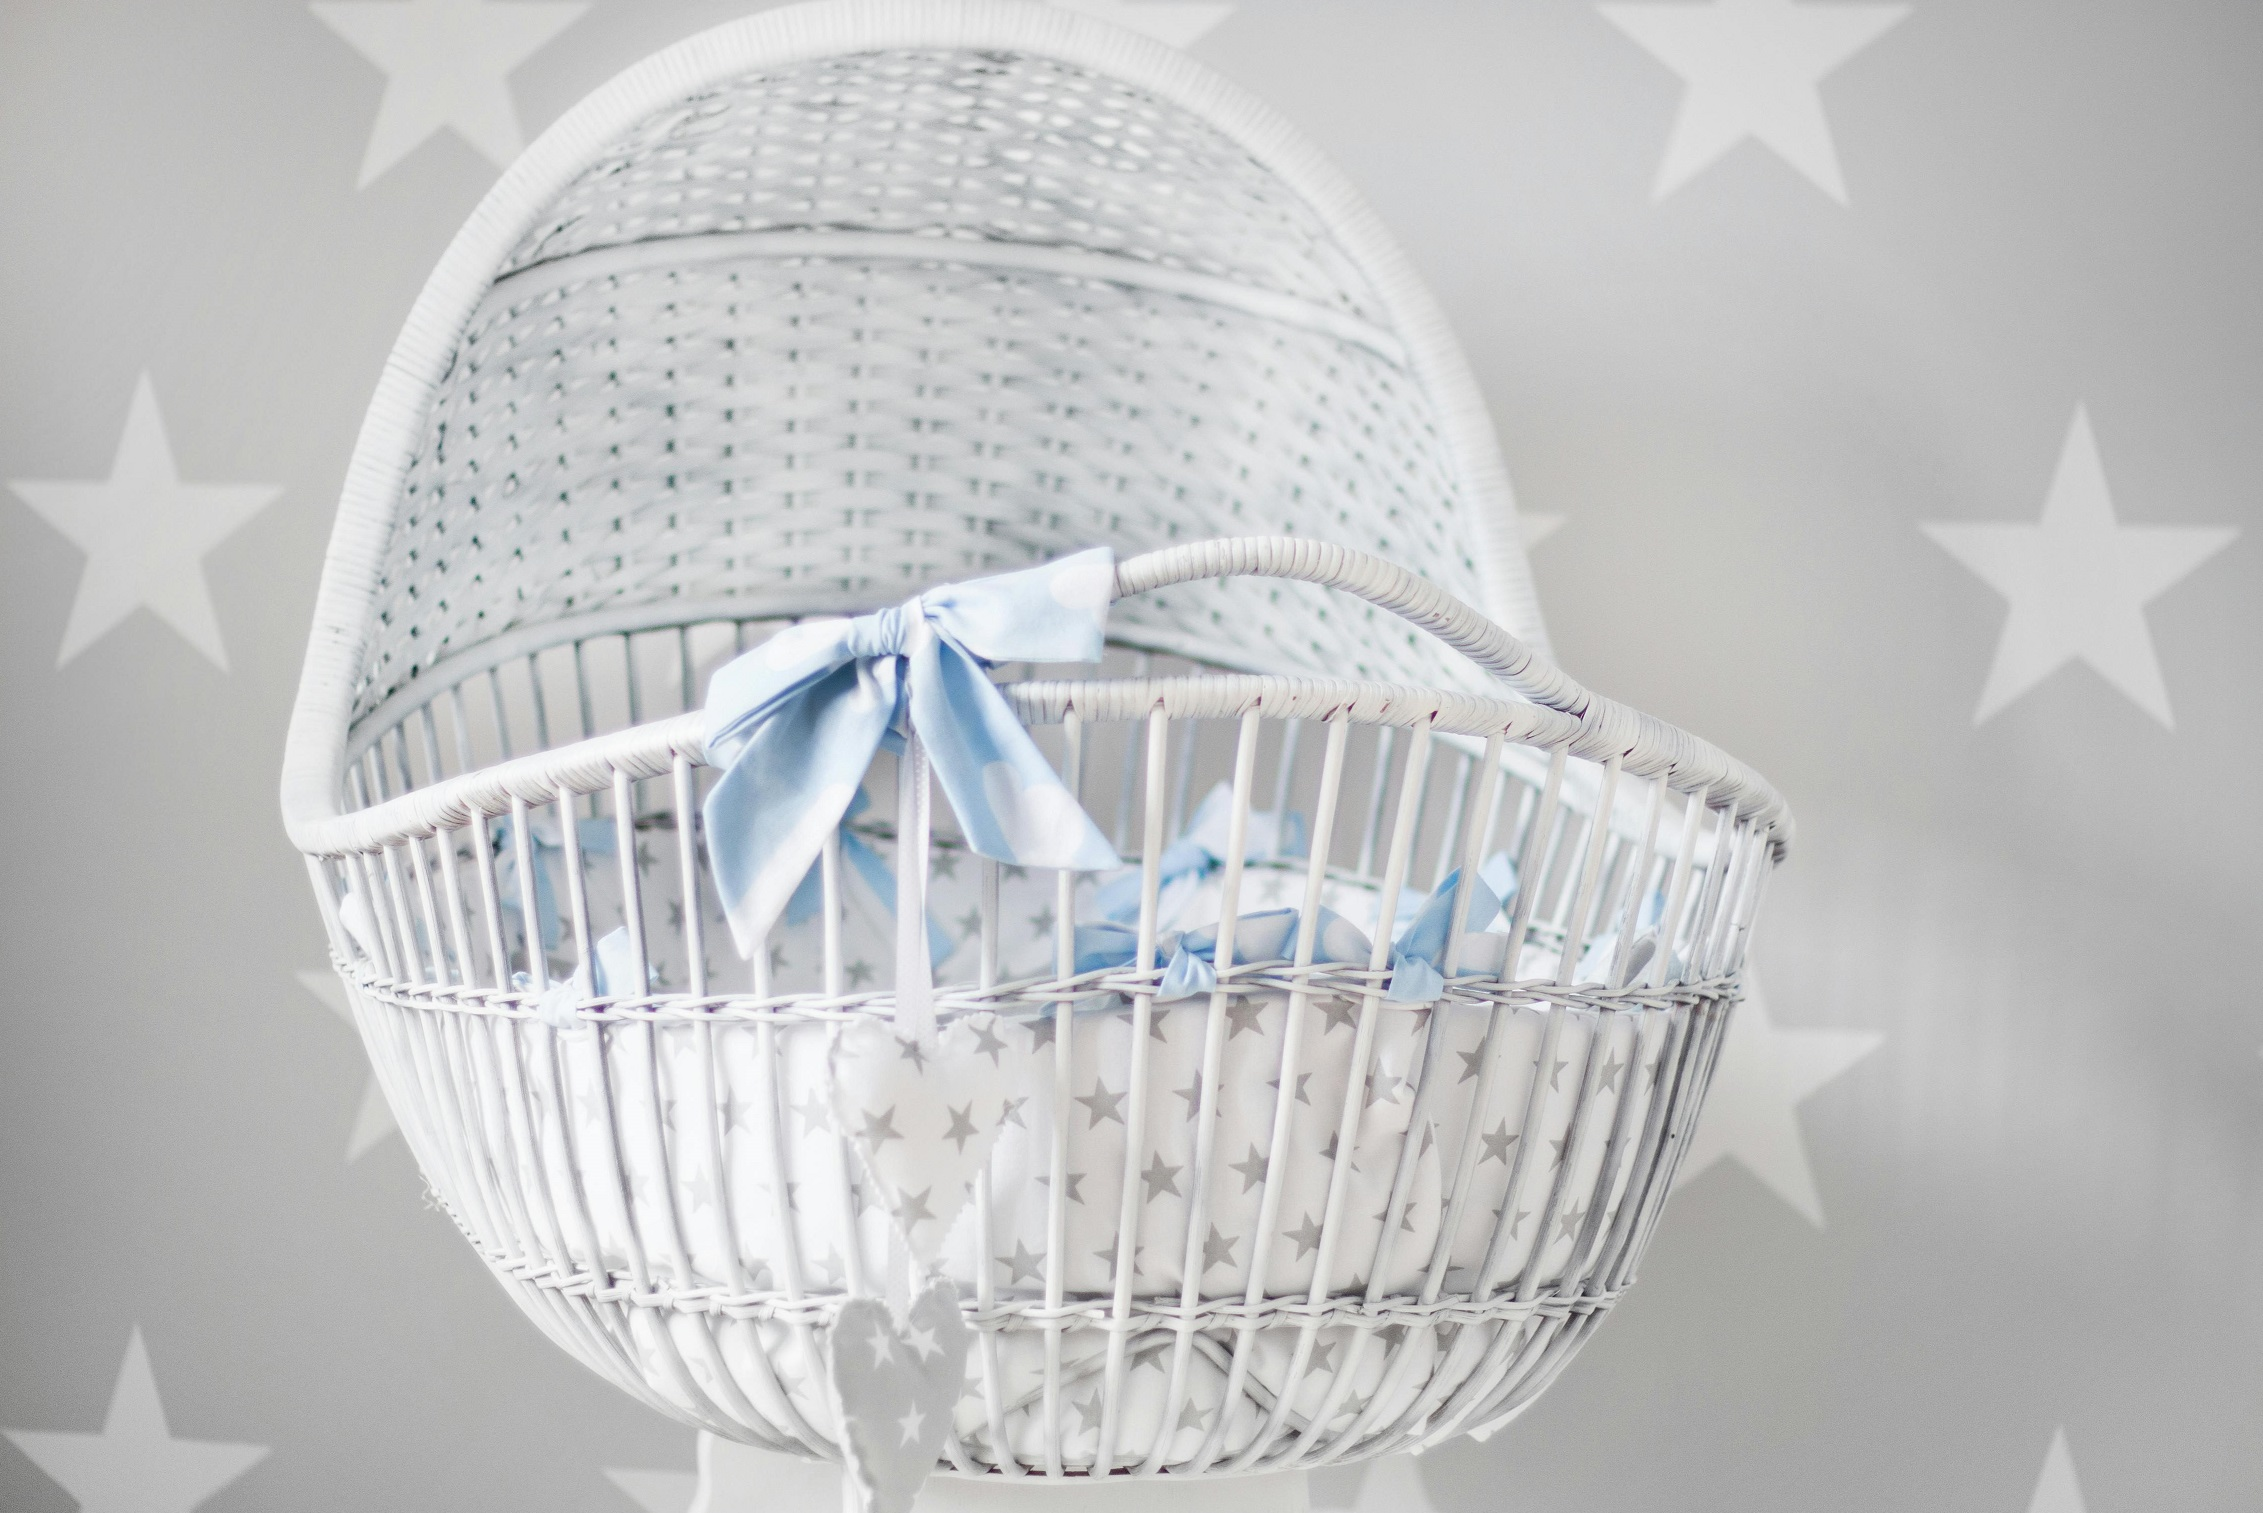
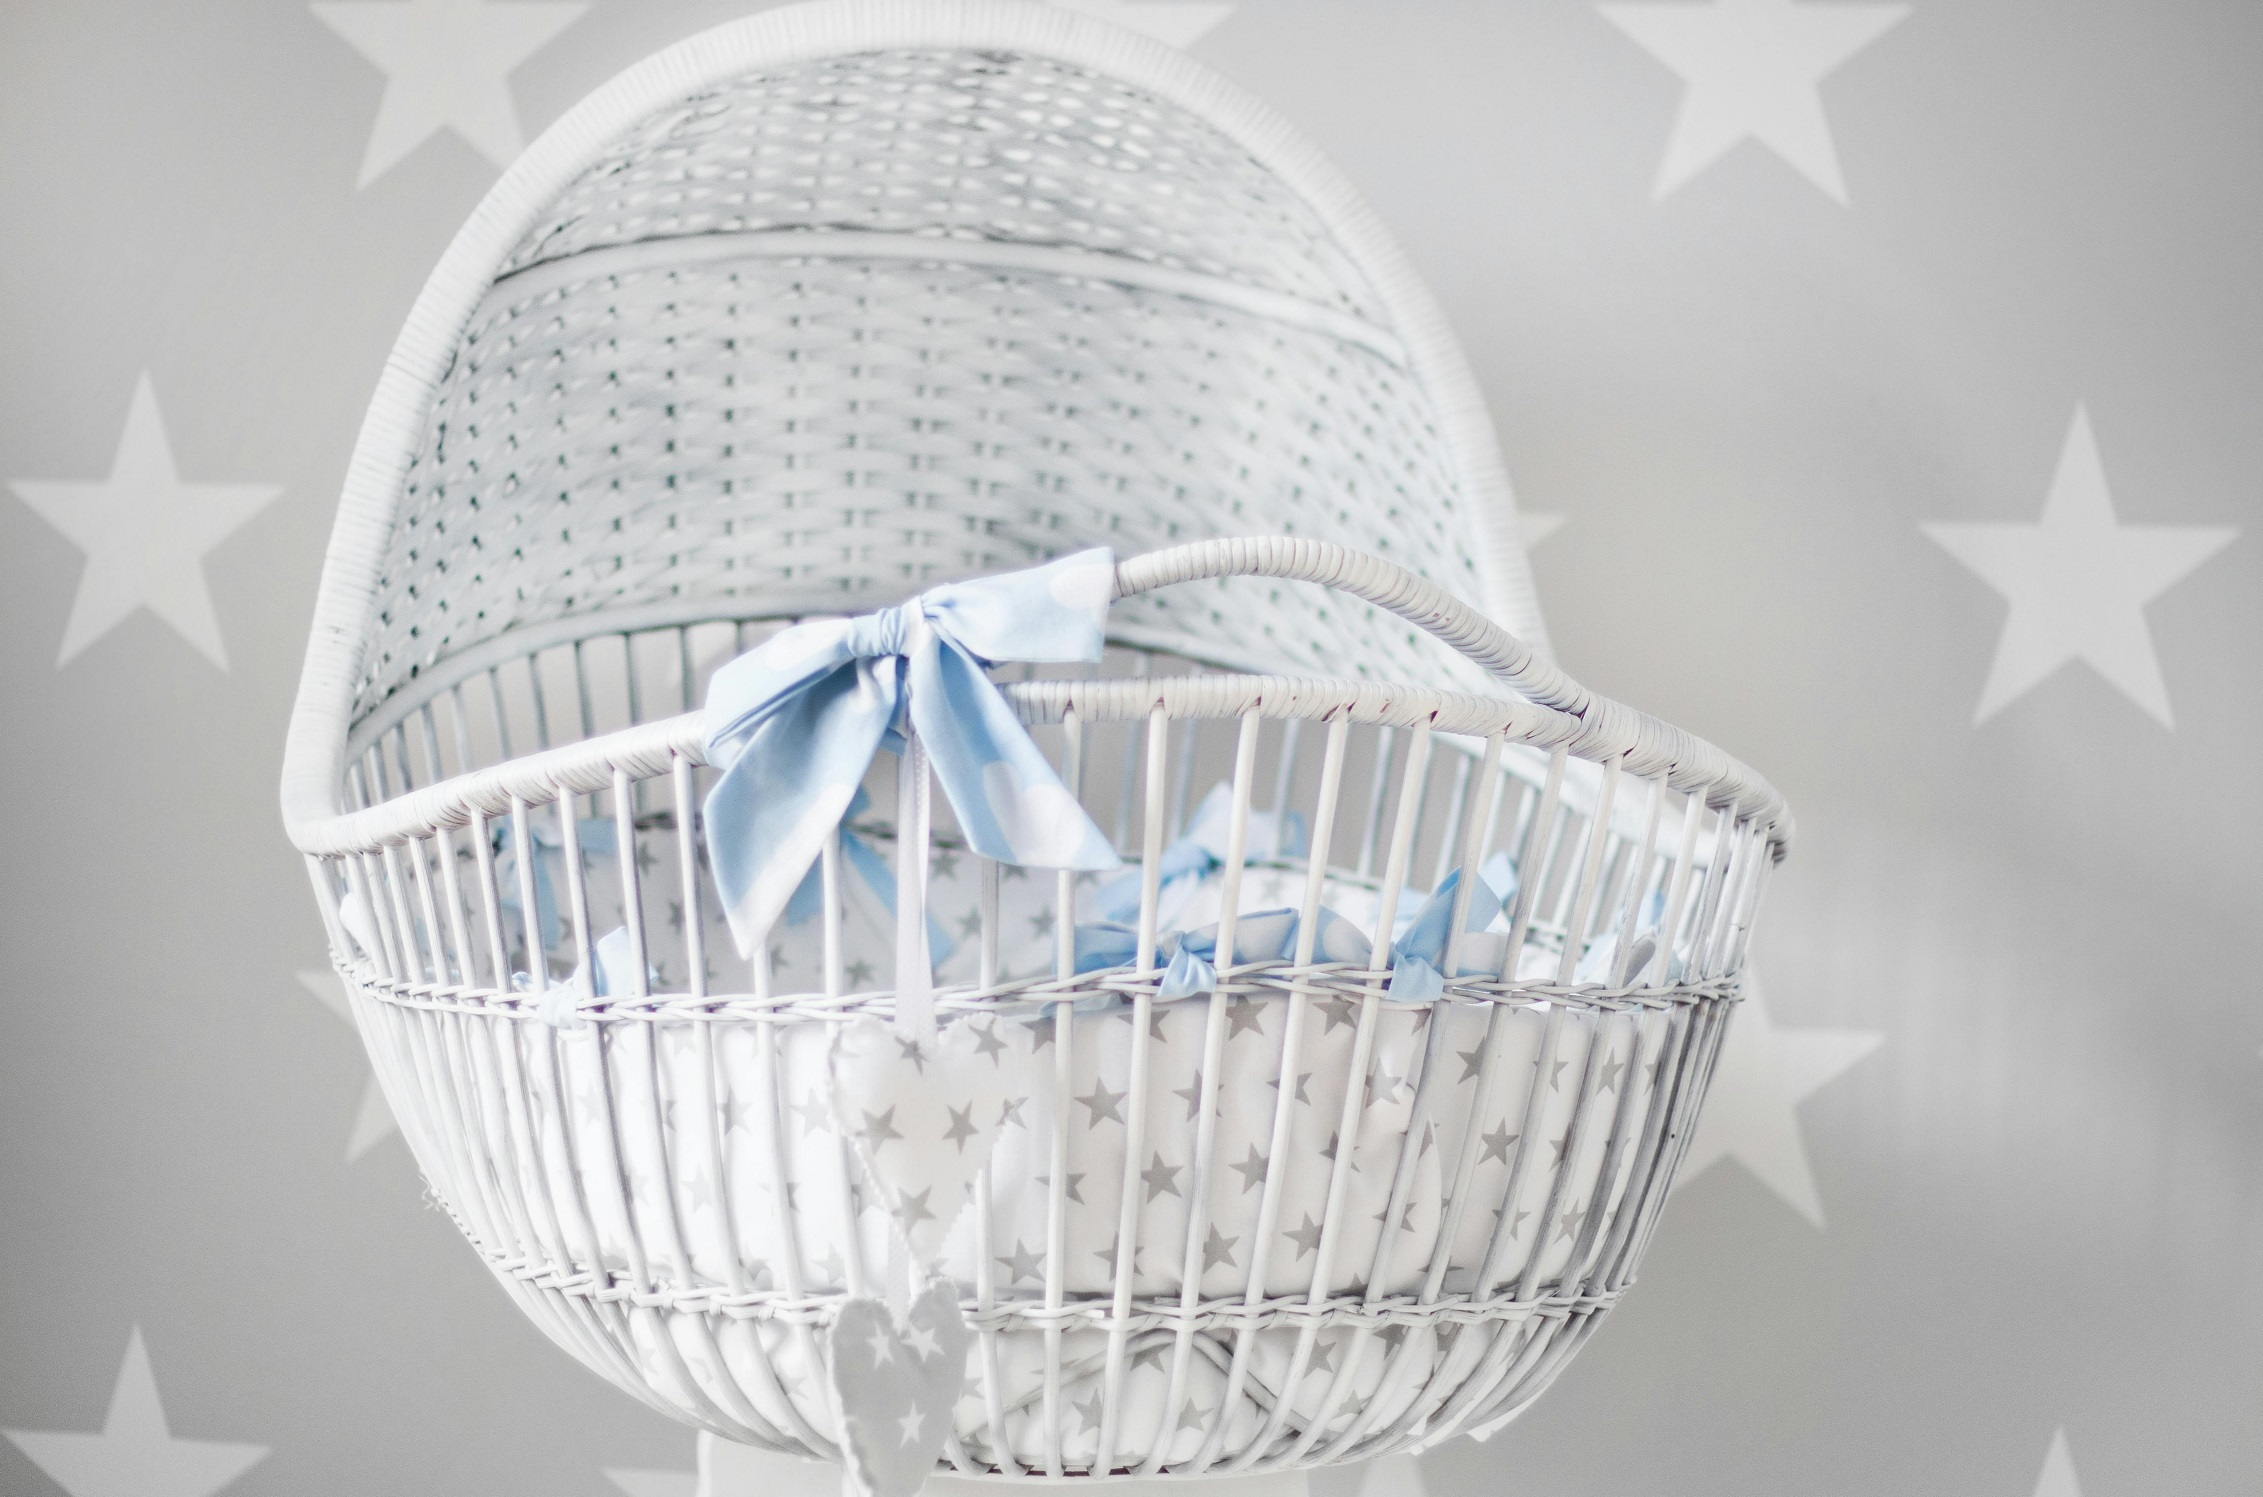
0812

diff --git a/BabyCiaoAPI/Controllers/PlatformController.cs b/BabyCiaoAPI/Controllers/PlatformController.cs
@@ -273,5 +273,34 @@ namespace BabyCiaoAPI.Controllers
         }
 
 
+        //刪除個人文章
+        //Delete api/Platform/delArticle/{id}
+        [HttpDelete("delArticle/{id}")]
+        public async Task<string> delArticle(int id)
+        {
+            if (id != 0)
+            {
+                //需要先刪除文章底下的回應，才能刪除文章
+                var delRes = _context.PlatformResponses.Where(c => c.IdPlatform == id).ToList();
+                //將查詢出來的結果遍歷做刪除的動作
+                foreach (var item in delRes)
+                {
+                _context.PlatformResponses.Remove(item);
+                }
+                await _context.SaveChangesAsync();
+
+                //刪除文章
+                var delArti=_context.Platforms.Find(id);
+                _context.Platforms.Remove(delArti);
+                await _context.SaveChangesAsync();
+                return "刪除成功";
+            }
+            else
+            {
+                return "刪除失敗";
+            }
+            
+        }
+
     }
 }
